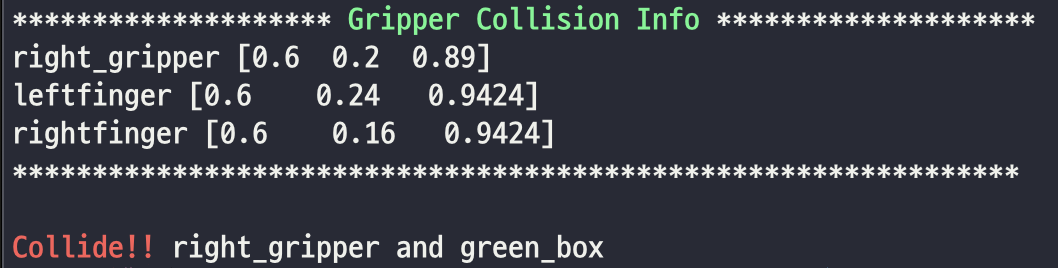
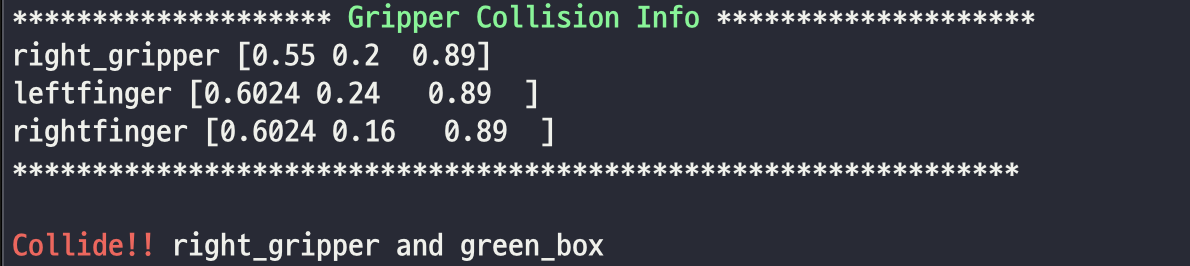
modified README.md

diff --git a/example/scene/collision/scene_collision_test.py b/example/scene/collision/scene_collision_test.py
@@ -75,27 +75,27 @@ r_mat = get_matrix_from_rpy(np.array([0, np.pi/2, 0]))
 eef_pose[:3, :3] = r_mat
 eef_pose[:3, 3] = eef_pose[:3, 3] - [0.05, 0, 0]
 ############################ Collide Robot and Object #############################
-target_thetas = scene_mngr.compute_ik(eef_pose)
-scene_mngr.set_robot_eef_pose(target_thetas)
-scene_mngr.robot_collision_mngr.show_collision_info("Robot")
+# target_thetas = scene_mngr.compute_ik(eef_pose)
+# scene_mngr.set_robot_eef_pose(target_thetas)
+# scene_mngr.robot_collision_mngr.show_collision_info("Robot")
 
-# print(scene_mngr.collide_self_robot(return_names=True))
-result, names = scene_mngr.collide_objs_and_robot(return_names=True)
-if result:
-    for obj1, obj2 in list(names):
-        print(f"{sc.FAIL}Collide!! {sc.ENDC}{obj1} and {obj2}")
-
-scene_mngr.render_all_scene(ax, robot_color='b')
-scene_mngr.show()
-
-############################# Collide Gripper and Object #############################
-# scene_mngr.set_gripper_pose(eef_pose)
-# scene_mngr.gripper_collision_mngr.show_collision_info("Gripper")
-
-# result, names = scene_mngr.collide_objs_and_gripper(return_names=True)
+# # print(scene_mngr.collide_self_robot(return_names=True))
+# result, names = scene_mngr.collide_objs_and_robot(return_names=True)
 # if result:
 #     for obj1, obj2 in list(names):
 #         print(f"{sc.FAIL}Collide!! {sc.ENDC}{obj1} and {obj2}")
 
-# scene_mngr.render_object_and_gripper(ax, robot_color='b', visible_tcp=False)
+# scene_mngr.render_all_scene(ax, robot_color='b')
 # scene_mngr.show()
+
+############################# Collide Gripper and Object #############################
+scene_mngr.set_gripper_pose(eef_pose)
+scene_mngr.gripper_collision_mngr.show_collision_info("Gripper")
+
+result, names = scene_mngr.collide_objs_and_gripper(return_names=True)
+if result:
+    for obj1, obj2 in list(names):
+        print(f"{sc.FAIL}Collide!! {sc.ENDC}{obj1} and {obj2}")
+
+scene_mngr.render_object_and_gripper(ax, robot_color='b', visible_tcp=False)
+scene_mngr.show()

diff --git a/README.md b/README.md
@@ -195,7 +195,7 @@ You can see visualization using matplotlib library or trimesh.Scene class.
   |                     Robot self collision                     |                      Robot and objects                       |                   Only gripper and objects                   |
   | :----------------------------------------------------------: | :----------------------------------------------------------: | :----------------------------------------------------------: |
   | <img src="img/self_collision.png" width="200" height="200"/> | <img src="img/robot_and_object.png" width="200" height="200"/> | <img src="img/gripper_and_object.png" width="200" height="200"/> |
-  | <img src="img/self_collision_result.png" width="400" height="200"/> | <img src="img/robot_and_object_result.png" width="400" height="200"/> | <img src="img/gripper_and_object_result.png" width="400" height="200"/> |
+  | <img src="img/self_collision_result.png" width="300" height="200"/> | <img src="img/robot_and_object_result.png" width="300" height="200"/> | <img src="img/gripper_and_object_result.png" width="500" height="200"/> |
 
   
 
